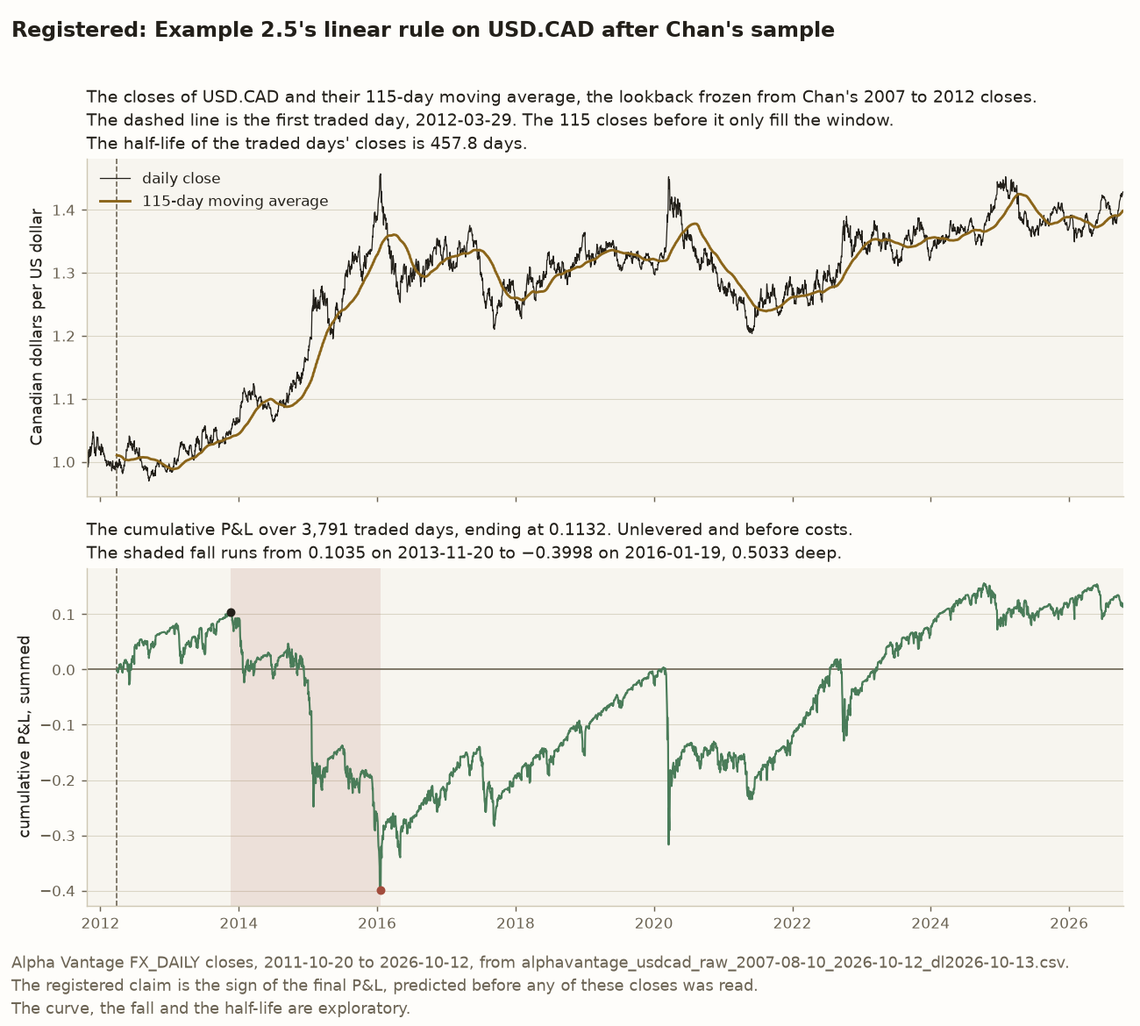
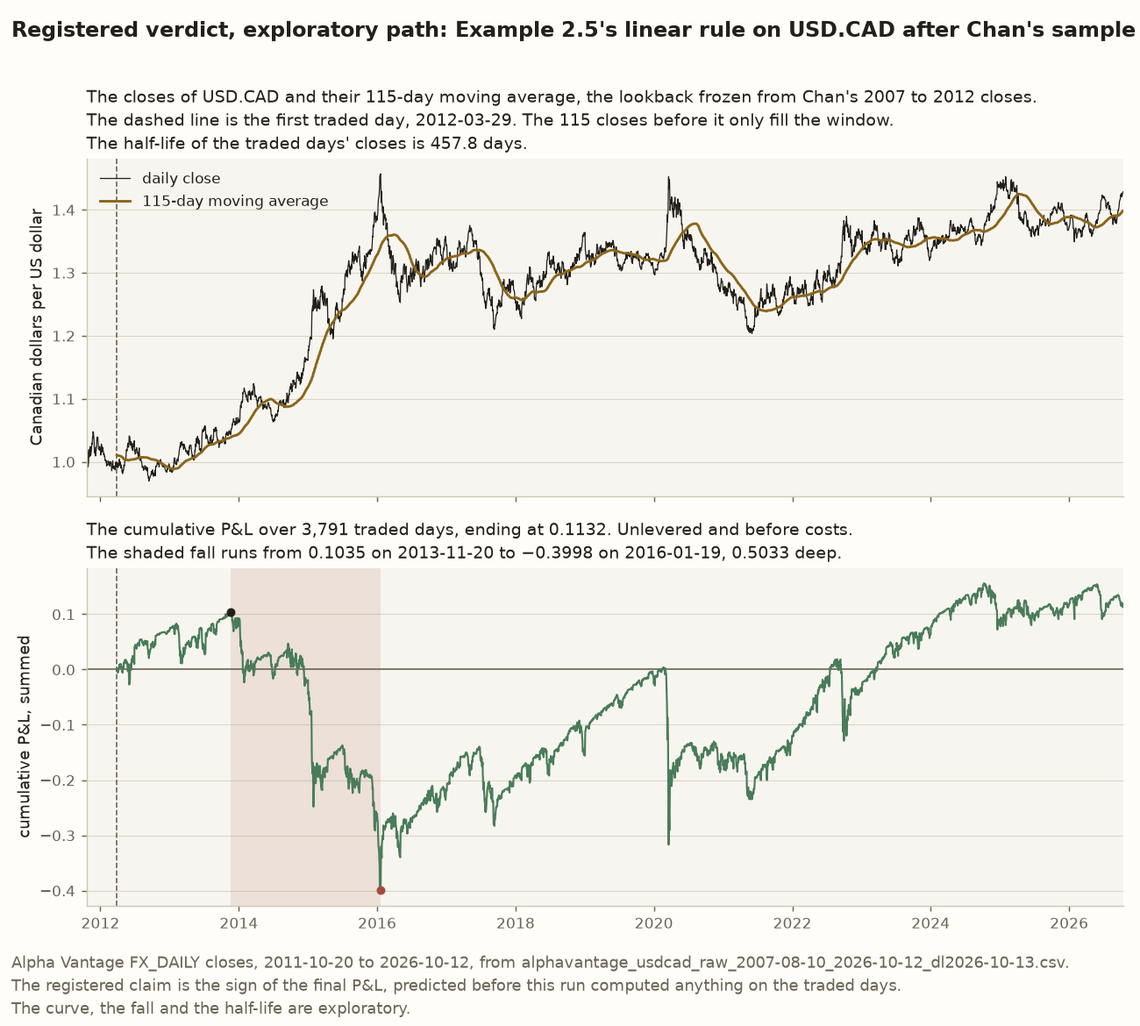
fix(blog): apply the review of the USD.CAD holdout write-up
The figure's title now says the verdict is registered and the path
exploratory, and its note says what was predicted before the run computed
anything. The post no longer says the later closes were unread, names jplv7
and genhurst where it uses them, drops a causal clause no test holds, and
says which sample the thresholds in Lesson 3 belong to. H's distance from the
band's mean and the band's half-width are pinned. README names the post's
pins and its unpinned facts, and Entry 22, the Entry 22 test file and the
look-ahead sketch's docstring name the follow-up.

diff --git a/tests/test_usdcad_holdout_figures.py b/tests/test_usdcad_holdout_figures.py
@@ -109,17 +109,18 @@ class TestThePanels:
             assert set(line.get_xdata()) == {FIRST_TRADED}, SPEC
             assert line.get_linestyle() == "--"
 
-    def test_the_title_carries_the_registered_label(self, figure) -> None:
+    def test_the_title_labels_the_verdict_registered_and_the_path_exploratory(self, figure) -> None:
         assert figure._suptitle.get_text() == (
-            "Registered: Example 2.5's linear rule on USD.CAD after Chan's sample"
+            "Registered verdict, exploratory path: Example 2.5's linear rule on USD.CAD "
+            "after Chan's sample"
         )
 
     def test_the_note_names_the_file_and_what_is_exploratory(self, figure) -> None:
         assert [t.get_text() for t in figure.texts if t is not figure._suptitle] == [
             "Alpha Vantage FX_DAILY closes, 2011-10-20 to 2026-10-12, from "
             "alphavantage_usdcad_raw_2007-08-10_2026-10-12_dl2026-10-13.csv.\nThe registered "
-            "claim is the sign of the final P&L, predicted before any of these closes was "
-            "read.\nThe curve, the fall and the half-life are exploratory."
+            "claim is the sign of the final P&L, predicted before this run computed anything "
+            "on the traded days.\nThe curve, the fall and the half-life are exploratory."
         ], SPEC
 
     def test_no_label_is_parsed_as_math(self, figure) -> None:

diff --git a/src/chan/usdcad_tests_whiteboard.py b/src/chan/usdcad_tests_whiteboard.py
@@ -1148,9 +1148,10 @@ def _look_ahead(run: StationarityRun) -> Scene:
     The top three rows are the run, drawn to scale by date. The timeline runs
     from the first close to the last, the measuring bar spans all of it, and
     the trading bar starts on the run's first position. The bottom pair is a
-    schematic of what avoiding the look-ahead needs, drawn dashed, because no
-    run here measures on earlier days and trades after. So it carries no dates
-    and no numbers, and where it splits the sample means nothing.
+    schematic of what avoiding the look-ahead needs, drawn dashed, because it
+    is not this run's dates. :mod:`chan.usdcad_holdout` runs that fix on the
+    closes after Chan's, with the lookback measured on his. So the pair carries
+    no dates and no numbers, and where it splits the sample means nothing.
     """
     first, last, start = run.closes.index[0], run.closes.index[-1], run.first_position
     left, right = 1.95, 8.05

diff --git a/tests/test_usdcad_mean_reversion.py b/tests/test_usdcad_mean_reversion.py
@@ -12,8 +12,11 @@ labels in ``tests/test_usdcad_mean_reversion_figures.py``, and its sketches'
 labels in ``tests/test_usdcad_tests_whiteboard.py``. README lists what
 the post says that nothing asserts. ``blog/tu-momentum-lessons.md`` quotes
 USD.CAD's H at a ``maxT`` of 19, which this file pins, so a change to that pin
-moves that post too. ``docs/replication-log.md`` Entry 22 carries the verdicts
-and points here row by row.
+moves that post too. ``blog/usdcad-holdout-lessons.md`` sets about ten of this
+file's figures beside its own, among them the P&L, the drawdown, the Sharpe
+ratio and the half-life, so a change to one of those moves it as well.
+``docs/replication-log.md`` Entry 22 carries the verdicts and points here row
+by row.
 
 Every pin on the committed closes reads one vintage and one specification, so
 both are stated once here and carried in every figure's failure message as

diff --git a/src/chan/usdcad_holdout_figures.py b/src/chan/usdcad_holdout_figures.py
@@ -119,11 +119,12 @@ def make_usdcad_holdout_figure(out: Path | None = None, holdout: Holdout | None 
 
     _title(
         fig,
-        "Registered: Example 2.5's linear rule on USD.CAD after Chan's sample",
+        "Registered verdict, exploratory path: Example 2.5's linear rule on USD.CAD after "
+        "Chan's sample",
         f"Alpha Vantage FX_DAILY closes, {days[0].date()} to {days[-1].date()}, from "
         f"{holdout.entry.path}.\nThe registered claim is the sign of the final P&L, "
-        "predicted before any of these closes was read.\nThe curve, the fall and the "
-        "half-life are exploratory.",
+        "predicted before this run computed anything on the traded days.\nThe curve, the "
+        "fall and the half-life are exploratory.",
     )
     fig.tight_layout(rect=(0, 0.075, 1, 0.97))
     return _save(fig, out, USDCAD_HOLDOUT_FIGURE)

diff --git a/tests/test_usdcad_holdout.py b/tests/test_usdcad_holdout.py
@@ -647,6 +647,12 @@ class TestWhatThePostMeasured:
         after = cumulative[cumulative.index > d.trough]
         assert after[after >= cumulative[d.peak]].index[0] == pd.Timestamp("2024-03-06"), SPEC
 
+    def test_h_sits_0_0014_below_the_walks_mean_inside_a_band_of_0_0260(
+        self, holdout, band
+    ) -> None:
+        pin(band.mean - holdout.hurst, 0.0013873817670264077, "0.0014")
+        assert f"{band.mean:.4f} ± {2 * band.sd:.4f}" == "0.4987 ± 0.0260", SPEC
+
     def test_the_largest_position_is_a_short_on_2020_03_19(self, holdout) -> None:
         held = pd.Series(holdout.held, index=holdout.traded.index)
         at = held.abs().idxmax()

diff --git a/blog/usdcad-holdout-lessons.md b/blog/usdcad-holdout-lessons.md
@@ -1,4 +1,4 @@
-# Trading USD.CAD’s mean reversion for fourteen years after the book
+# Trading USD.CAD’s mean reversion for fourteen years after Chan’s sample
 
 *On closes nobody had read, Chan’s trade still ends positive, by too little to tell from chance.*
 
@@ -16,12 +16,12 @@ This post removes both. It keeps the lookback at 115, fixed from Chan’s closes
 The holdout draws five lessons.
 
 1. **The claim survives on its sign alone.** The P&L ends at 0.1132, above 0, and its mean daily value cannot be told from zero.
-2. **Writing the predictions down first is what makes it a check.** Six predictions and one figure to report were filed before any later close was read, and the post sets each beside what happened.
+2. **Writing the predictions down first is what makes it a check.** Six predictions and one figure to report were filed before the run computed anything on the later closes, and the post sets each beside what happened.
 3. **The later closes read as a random walk, as predicted.** None of the three tests from the earlier post rejects one.
 4. **The frozen lookback is about a quarter of the later half-life.** The closes after 2012 give a half-life of 457.8077 days.
 5. **The fall is again several times the final P&L.** The deepest drawdown is 0.5033, more than four times what the run ends with.
 
-**The verdict is registered, and the side figures are exploratory.** A registered result is one whose test and pass mark were written down before any of its data was read. A **holdout** is data kept back from every decision about a test, so a result on it is a fresh check. The claim and four of the predictions beside it are registered. The half-life, the drawdown, the Sharpe ratio and the positions were not predicted, so they describe the run and decide nothing.
+**The verdict is registered, and the side figures are exploratory.** A registered result is one whose test and pass mark were written down before anything was computed on its data. Lesson 2 lists what had been read before then. A **holdout** is data kept back from every decision about a test, so a result on it is a fresh check. The claim and four of the predictions beside it are registered. The half-life, the drawdown, the Sharpe ratio and the positions were not predicted, so they describe the run and decide nothing.
 
 ## The closes and what carried over
 
@@ -31,13 +31,13 @@ The rule needs 115 closes before it can hold a position, so the run starts on th
 
 Everything else carried over unchanged. Each day’s P&L is yesterday’s position times today’s percent change in the close. The rule pays no transaction cost and earns or pays no overnight interest on the currencies it holds, as in Chan’s script.
 
-![Two charts stacked on one shared date axis from October 2011 to October 2026. The top chart shows USD.CAD’s daily closes, starting near 1.00 in 2012, climbing to about 1.46 by early 2016, swinging between about 1.21 and 1.45 through 2020 and 2021, and ending near 1.43 in 2026. A smoother brown line, the 115-day moving average, trails the closes from the end of March 2012. A dashed vertical line marks the first traded day, 2012-03-29. The bottom chart shows the cumulative P&L of the linear rule as a green line from 2012-03-29. It rises to 0.1035 on 2013-11-20, marked with a dot, then falls inside a shaded band to −0.3998 on 2016-01-19, marked with a red dot. It climbs back with sharp drops in early 2020 and in 2022, passes its 2013 high in 2024, and ends at 0.1132. A horizontal line marks zero. The title calls the claim registered, and the note says the curve, the fall and the half-life are exploratory.](../docs/figures/usdcad_holdout.png)
+![Two charts stacked on one shared date axis from October 2011 to October 2026. The top chart shows USD.CAD’s daily closes, starting near 1.00 in 2012, climbing to about 1.46 by early 2016, swinging between about 1.21 and 1.45 through 2020 and 2021, and ending near 1.43 in 2026. A smoother brown line, the 115-day moving average, trails the closes from the end of March 2012. A dashed vertical line marks the first traded day, 2012-03-29. The bottom chart shows the cumulative P&L of the linear rule as a green line from 2012-03-29. It rises to 0.1035 on 2013-11-20, marked with a dot, then falls inside a shaded band to −0.3998 on 2016-01-19, marked with a red dot. It climbs back with sharp drops in early 2020 and in 2022, passes its 2013 high in 2024, and ends at 0.1132. A horizontal line marks zero. The title calls the verdict registered and the path exploratory, and the note says the curve, the fall and the half-life are exploratory.](../docs/figures/usdcad_holdout.png)
 
 *USD.CAD’s closes after Chan’s sample with their 115-day moving average, and the linear rule’s cumulative P&L with its deepest fall shaded. The lookback is frozen at the half-life of Chan’s closes, and only the sign of the final P&L was predicted.*
 
 ## Lesson 1: the claim survives on its sign alone
 
-The pass mark, written down before the run, was that the daily P&L summed over the 3,791 traded days is above 0. It is 0.1132. So Chan’s claim that the P&L “manages to be positive” holds on fourteen years he never saw, and the verdict is **reproduced**. On his own closes the P&L ended at 0.1141.
+The pass mark, written down before the run, was that the daily P&L summed over the 3,791 traded days is above 0. It is 0.1132. So Chan’s claim that the P&L “manages to be positive” holds on the fourteen years after his sample, and the verdict is **reproduced**. On his own closes the P&L ended at 0.1141.
 
 A positive sum says less than it seems to, because a rule with no edge can end positive by chance. The question that matters is whether the mean daily P&L behind the sum is above zero by more than chance would give. The t-statistic answers it. It divides the mean daily P&L by its standard error, the amount that mean would typically wander by chance. The **Newey-West** version widens that standard error when nearby days’ P&L moves together, which it does here, because the rule holds much the same position for weeks. It allows for neighbours up to 8 days apart. A one-sided test at the 5 percent level needs a t above 1.645.
 
@@ -58,7 +58,7 @@ The Sharpe ratio says the same thing in the form most traders use. It is the mea
 
 ## Lesson 2: writing the predictions down first is what makes it a check
 
-A test chosen after the data is seen proves little, because some test always fits the data. So before any close after 2012-03-28 was read, the plan for this run wrote down six predictions and one figure to report beside them. Each named its statistic, its pass mark where it had one, and the days it reads. The plan also fixed the lookback at 115 and said which outcome of the first prediction would count as reproduced.
+A test chosen after the data is seen proves little, because some test always fits the data. So before this run computed anything on the closes after 2012-03-28, its plan wrote down six predictions and one figure to report beside them. Each named its statistic, its pass mark where it had one, and the days it reads. The plan also fixed the lookback at 115 and said which outcome of the first prediction would count as reproduced.
 
 ```math
 \begin{array}{l|l|l|l}
@@ -75,13 +75,13 @@ A test chosen after the data is seen proves little, because some test always fit
 
 H1 decides the verdict. H3 to H6 decide nothing on their own, and each landed as written. H7 carried no prediction, so it is exploratory.
 
-H2 did not run. It would have tested the same claim on Chan’s own feed, the 16:59 bar, rebuilt from another vendor’s minute bars. Those bars reach back only to 2024-10-13 on the plan this repository has, so H2 waits for data that covers 2012. Without it, nothing here says whether the result depends on the feed.
+H2 did not run. It would have tested the same claim on Chan’s own feed, the 16:59 bar, rebuilt from another vendor’s minute bars. Those bars reach back only to 2024-10-13 on the data subscription this repository has, so H2 waits for data that covers 2012. Without it, nothing here says whether the result depends on the feed.
 
 Three reads of the later closes came before the run, and the plan names all three because a registration is only as clean as what was seen before it.
 
 1. **The Johansen test on AUD.CAD** in this repository had already read about 20 of the holdout’s first days, through 2012-04-26, from a file of Chan’s that runs to that date. That run used a different rule on Chan’s feed. The [post on that test](https://github.com/l3a0/quantitative-trading/blob/main/blog/aud-cad-johansen-lessons.md) covers it.
 2. **A check of the vendor’s coverage** compared its closes with Chan’s only on the days the two share, up to 2012-03-28.
-3. **The file checks** read every close when the vintage was committed, to confirm its checksum and its columns, and only whether they passed was looked at.
+3. **The file checks** read every close when the file was committed, to confirm its checksum and its columns, and only whether they passed was looked at.
 
 None of them computed a P&L or a test statistic on the later days.
 
@@ -91,16 +91,18 @@ The earlier post ran three tests on Chan’s closes, and none could tell USD.CAD
 
 ```math
 \begin{array}{l|r|r|r}
-\text{Test} & \text{Chan's closes} & \text{After 2012} & \text{Rejects a random walk when} \\ \hline
-\text{ADF statistic, jplv7, 1 lag} & -1.8407 & -2.0814 & \text{below } -2.5937 \\
+\text{Test} & \text{Chan's closes} & \text{After 2012} & \text{Rejects after 2012 when} \\ \hline
+\text{ADF statistic, 1 lag} & -1.8407 & -2.0814 & \text{below } -2.5937 \\
 \text{Variance ratio test, p-value} & 0.3673 & 0.4343 & \text{below 0.05} \\
-\text{Hurst exponent H, genhurst} & 0.4732 & 0.4974 & \text{outside } 0.4987 \pm 0.0260
+\text{Hurst exponent H} & 0.4732 & 0.4974 & \text{outside } 0.4987 \pm 0.0260
 \end{array}
 ```
 
-1. **The augmented Dickey-Fuller (ADF) test** gives −2.0814, above its 10 percent critical value of −2.5937, so it does not reject. The statistic has to fall below the critical value to reject. `adfuller`, the version most Python code calls, gives −2.0243 on the same closes, which the earlier post’s second lesson explains.
+1. **The augmented Dickey-Fuller (ADF) test**, in the version from jplv7, the MATLAB toolbox Chan’s script calls, gives −2.0814. That is above its 10 percent critical value of −2.5937, so it does not reject. The statistic has to fall below the critical value to reject. `adfuller`, the version most Python code calls, gives −2.0243 on the same closes, which the earlier post’s second lesson explains.
 2. **The variance ratio test** gives a p-value of 0.4343. A random walk would give a ratio this far from 1 more than two times in five.
-3. **The Hurst exponent H** is 0.4974. On 40,000 random walks of the same 3,791 closes, the same estimator averages 0.4987 with a standard deviation of 0.0130. The plan’s band is two standard deviations either side, 0.4987 ± 0.0260, and H sits 0.0014 below the average. The 10 percent critical value above is the one for this sample’s length, where the earlier post’s was for Chan’s 1,216 closes.
+3. **The Hurst exponent H** is 0.4974, from `genhurst`, the function Chan’s script calls. On 40,000 random walks of the same 3,791 closes, the same estimator averages 0.4987 with a standard deviation of 0.0130. The plan’s band is two standard deviations either side, 0.4987 ± 0.0260, and H sits 0.0014 below the average.
+
+Both thresholds in the last column are for the 3,791 later closes. On Chan’s 1,216 closes the ADF test’s 10 percent value was −2.594, and H’s random-walk spread was wider, as the earlier post’s third lesson measures.
 
 So fourteen more years of closes did not turn USD.CAD into a series a test can call mean reverting. The rule still trades it as one.
 
@@ -116,7 +118,7 @@ The **half-life** is how long a distance from the mean takes to halve, if the se
 \end{array}
 ```
 
-Chan sets the lookback to the half-life because the half-life “depends on the properties of the price series itself” (Chan, 2013, p. 60). On these closes that property moved by a factor of four, and a rule fixed in 2012 kept measuring its deviations over 115 days. The plan carried no prediction for the half-life, so this is a description of the run and nothing more.
+Chan sets the lookback to the half-life because the half-life “depends on the properties of the price series itself” (Chan, 2013, p. 60). On these closes the estimate came out almost four times longer, and a rule fixed in 2012 kept measuring its deviations over 115 days. The plan carried no prediction for the half-life, so this is a description of the run and nothing more.
 
 It also cannot be read as the right lookback. The tests in Lesson 3 cannot reject a random walk, which has no half-life at all, so 457.8077 days is an estimate from a series that may not revert. Running the rule again at a lookback of 458 would be choosing a parameter after seeing its number. That would make a new run, and an exploratory one.
 
@@ -124,11 +126,11 @@ It also cannot be read as the right lookback. The tests in Lesson 3 cannot rejec
 
 On Chan’s closes the P&L fell 0.6425 from its high, more than five times what it ended with. After 2012 it happened again at a smaller scale. The P&L rose to 0.1035 on 2013-11-20 and fell to −0.3998 on 2016-01-19, a drawdown of 0.5033, more than four times the final 0.1132.
 
-The fall has the same cause as in 2008. Across it USD.CAD rose from 1.0445 to 1.45699, so the US dollar gained 39.5 percent on the Canadian dollar. The rule bets that the close returns to its average, so it was short the US dollar on 458 of the 562 days of the fall. The P&L did not pass its 2013 high again until 2024-03-06, more than ten years later.
+As in 2008, the fall came while the dollar rose and the rule was mostly short. Across it USD.CAD rose from 1.0445 to 1.45699, so the US dollar gained 39.5 percent on the Canadian dollar. The rule bets that the close returns to its average, so it was short the US dollar on 458 of the 562 days of the fall. The P&L did not pass its 2013 high again until 2024-03-06, more than ten years later.
 
-Chan’s third caution is that “an unlimited amount of capital may be needed”, because nothing caps the position (Chan, 2013, p. 50). The largest position after 2012 was a short of 5.4054 on 2020-03-19, when the close stood more than five moving standard deviations above its average. On Chan’s closes the largest was a short of 4.12.
+Chan also cautions that “an unlimited amount of capital may be needed”, because nothing caps the position (Chan, 2013, p. 50). The largest position after 2012 was a short of 5.4054 on 2020-03-19, when the close stood more than five moving standard deviations above its average. On Chan’s closes the largest was a short of 4.12.
 
-The rule also leaned the other way from Chan’s sample. On his closes it was short on 488 of the 1,101 days it held a position. After 2012 it was short on 0.6006 of the traded days and long on 0.3994, and it was never flat. A rule that sells a rising close spends most of its time short through a dollar that rose for most of the period.
+The rule also leaned the other way from Chan’s sample. On his closes it was short on 488 of the 1,101 days it held a position, fewer than half. After 2012 it was short on 0.6006 of the traded days and long on 0.3994, and it was never flat.
 
 ## What this holdout cannot say
 
@@ -143,9 +145,9 @@ Four questions are beyond it.
 
 One habit for each lesson.
 
-1. **Read the t beside the sign.** A total that ends positive over fourteen years can still be indistinguishable from zero, and the sign alone says nothing about an edge.
+1. **Read the t beside the sign.** A total that ends positive over fourteen years can still be indistinguishable from zero, and the sign alone says little about an edge.
 2. **Write the predictions down before reading the data.** A plan filed first, with its pass marks and the days it reads, is the difference between a check and a story told afterwards. Name what was seen before it, too.
-3. **Run the tests again before trading a rule on new years.** A rule built for a reverting series still trades a series that no longer looks like one, and only the tests say so.
+3. **Run the tests again before trading a rule on new years.** A rule built for a reverting series trades whatever series it is given, including one the tests cannot tell from a random walk, and only the tests say so.
 4. **Check a fixed parameter against the new data, and do not re-fit it there.** A lookback set on one period can be a quarter of what the next period measures. Changing it after seeing that makes a new, exploratory run.
 5. **Size the drawdown before the trade.** An uncapped rule that sells a rising price fell more than four times its final P&L here and more than five times in Chan’s sample.
 

diff --git a/README.md b/README.md
@@ -1431,7 +1431,12 @@ gaps, and the report's lines. The vintage is committed, so every pin runs
 everywhere, CI included. On synthetic rows it holds each refusal of the run,
 the window, and the slicing that makes the positions `market_value(...)[114:-1]`
 earn `pnl[115:]`. On stubbed calls it holds that each refusal of the command
-prints one line and that the key reaches none.
+prints one line and that the key reaches none. `TestWhatThePostMeasured`
+holds what the write-up measured after the run: the closes across the
+drawdown and their rise, the days of the fall held short, the day the P&L
+regains its 2013 high, the largest position's day, and H6's distance from
+the band's mean and the band's half-width. The blog post about it is the
+exception, and what it says that nothing here asserts is listed below.
 [tests/test_fetch_alphavantage.py](tests/test_fetch_alphavantage.py) holds
 the fetch's refusals of a response on stubbed bodies.
 
@@ -4461,7 +4466,7 @@ Five passages point at the forty-eighth post below, which trades the rule after
 2012 at the same lookback: the opening's note on what the reproduction cannot
 say, Lesson 5's paragraph on avoiding the look-ahead and the caption of its
 look-ahead sketch, the third item in what the post cannot say, and the fifth
-habit. None of them quotes its numbers.
+habit. None of them quotes its statistics.
 
 Five groups of what it says are not pinned here.
 
@@ -6989,7 +6994,7 @@ repeating them, and draws five lessons from Entry 51 of the replication log.
    from 2013-11-20 to 2016-01-19, while USD.CAD rose 39.5 percent and the rule
    was short on 458 of its 562 days.
 
-Three groups of what it says are not pinned here.
+Four groups of what it says are not pinned here.
 
 1. Chan's words, each cited by its page in the 2013 print edition, as the
    earlier post cites them: the claim on 49, unlimited capital on 50 and the
@@ -6997,9 +7002,13 @@ Three groups of what it says are not pinned here.
 2. Readings no test asserts: that a rule with no edge can end positive by
    chance, that the rule holds much the same position for weeks, that a
    p-value of 0.4343 means a random walk gives a ratio this far from 1 more
-   than two times in five, and that the US dollar rose against the Canadian
-   dollar for most of the period.
-3. The figure's alt text, whose readings of the lines, such as "near 1.43 in
+   than two times in five, that 488 of 1,101 days is fewer than half, and
+   that 2013-11-20 to 2024-03-06 is more than ten years.
+3. Facts Entry 51 states rather than pins: that the other vendor's minute
+   bars reach back only to 2024-10-13 on the current subscription, and that
+   an earlier run had read about 20 of the holdout's first days, through
+   2012-04-26.
+4. The figure's alt text, whose readings of the lines, such as "near 1.43 in
    2026" and "between about 1.21 and 1.45", are approximate by design.
 
 Every other number traces to an assertion in
@@ -7007,7 +7016,7 @@ Every other number traces to an assertion in
 [tests/test_usdcad_holdout_figures.py](tests/test_usdcad_holdout_figures.py)
 for the figure's own numbers, or, for Chan's closes, to
 [tests/test_usdcad_mean_reversion.py](tests/test_usdcad_mean_reversion.py).
-Four had no pin before the post, and `TestWhatThePostMeasured` in
+Six had no pin before the post, and `TestWhatThePostMeasured` in
 [tests/test_usdcad_holdout.py](tests/test_usdcad_holdout.py) pins them, all
 measured after the run.
 
@@ -7016,6 +7025,8 @@ measured after the run.
 2. The rule is short on 458 of the 562 days of the fall.
 3. The P&L first passes its 2013 high again on 2024-03-06.
 4. The largest position is a short of 5.4054 on 2020-03-19.
+5. H sits 0.0014 below the random walks' mean.
+6. The band is 0.4987 ± 0.0260, twice the walks' standard deviation.
 
 Its one figure, `usdcad_holdout.png`, is drawn from the committed file by
 [src/chan/usdcad_holdout_figures.py](src/chan/usdcad_holdout_figures.py),

diff --git a/docs/replication-log.md b/docs/replication-log.md
@@ -5440,6 +5440,10 @@ redraws, and its fourteen whiteboard sketches, which
 5. Two in Lesson 3.
 6. Two in Lesson 5.
 
+[blog/usdcad-holdout-lessons.md](../blog/usdcad-holdout-lessons.md) sets
+about ten of these figures beside Entry 51's, so a change to one of them moves
+that post too.
+
 ## Entry 23: EWA, EWC and IGE, Chan's *Algorithmic Trading*
 
 Source: Ernest P. Chan, *Algorithmic Trading: Winning Strategies and Their
